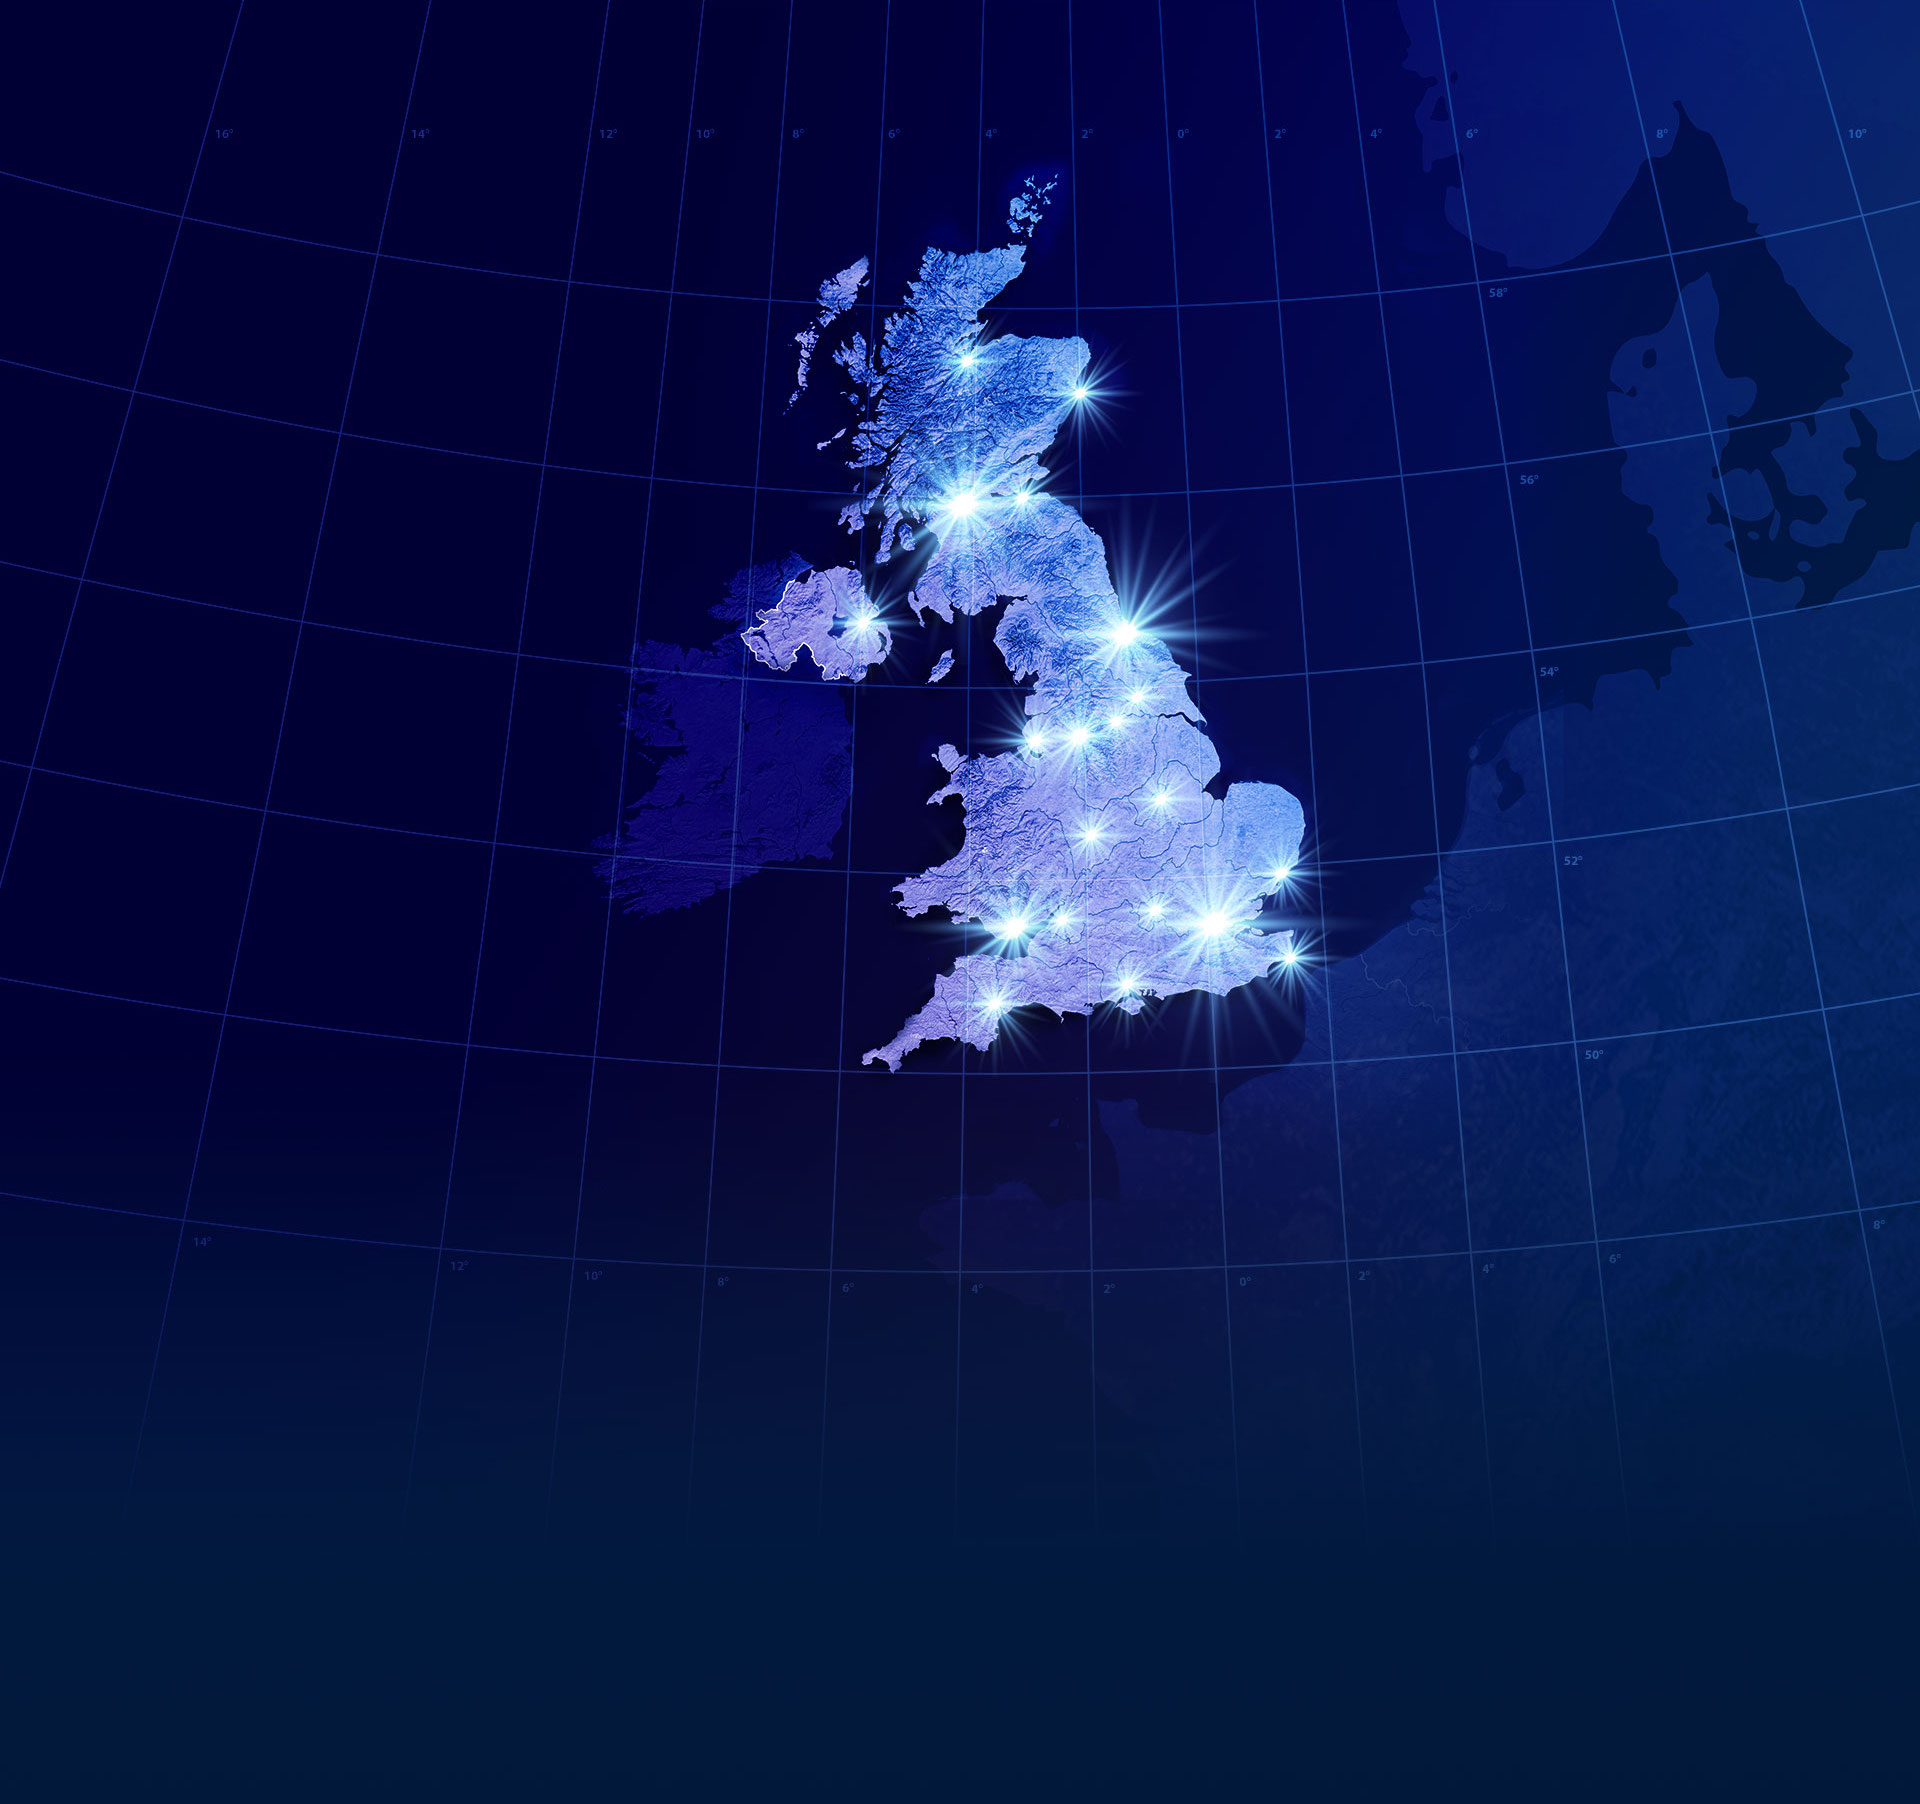
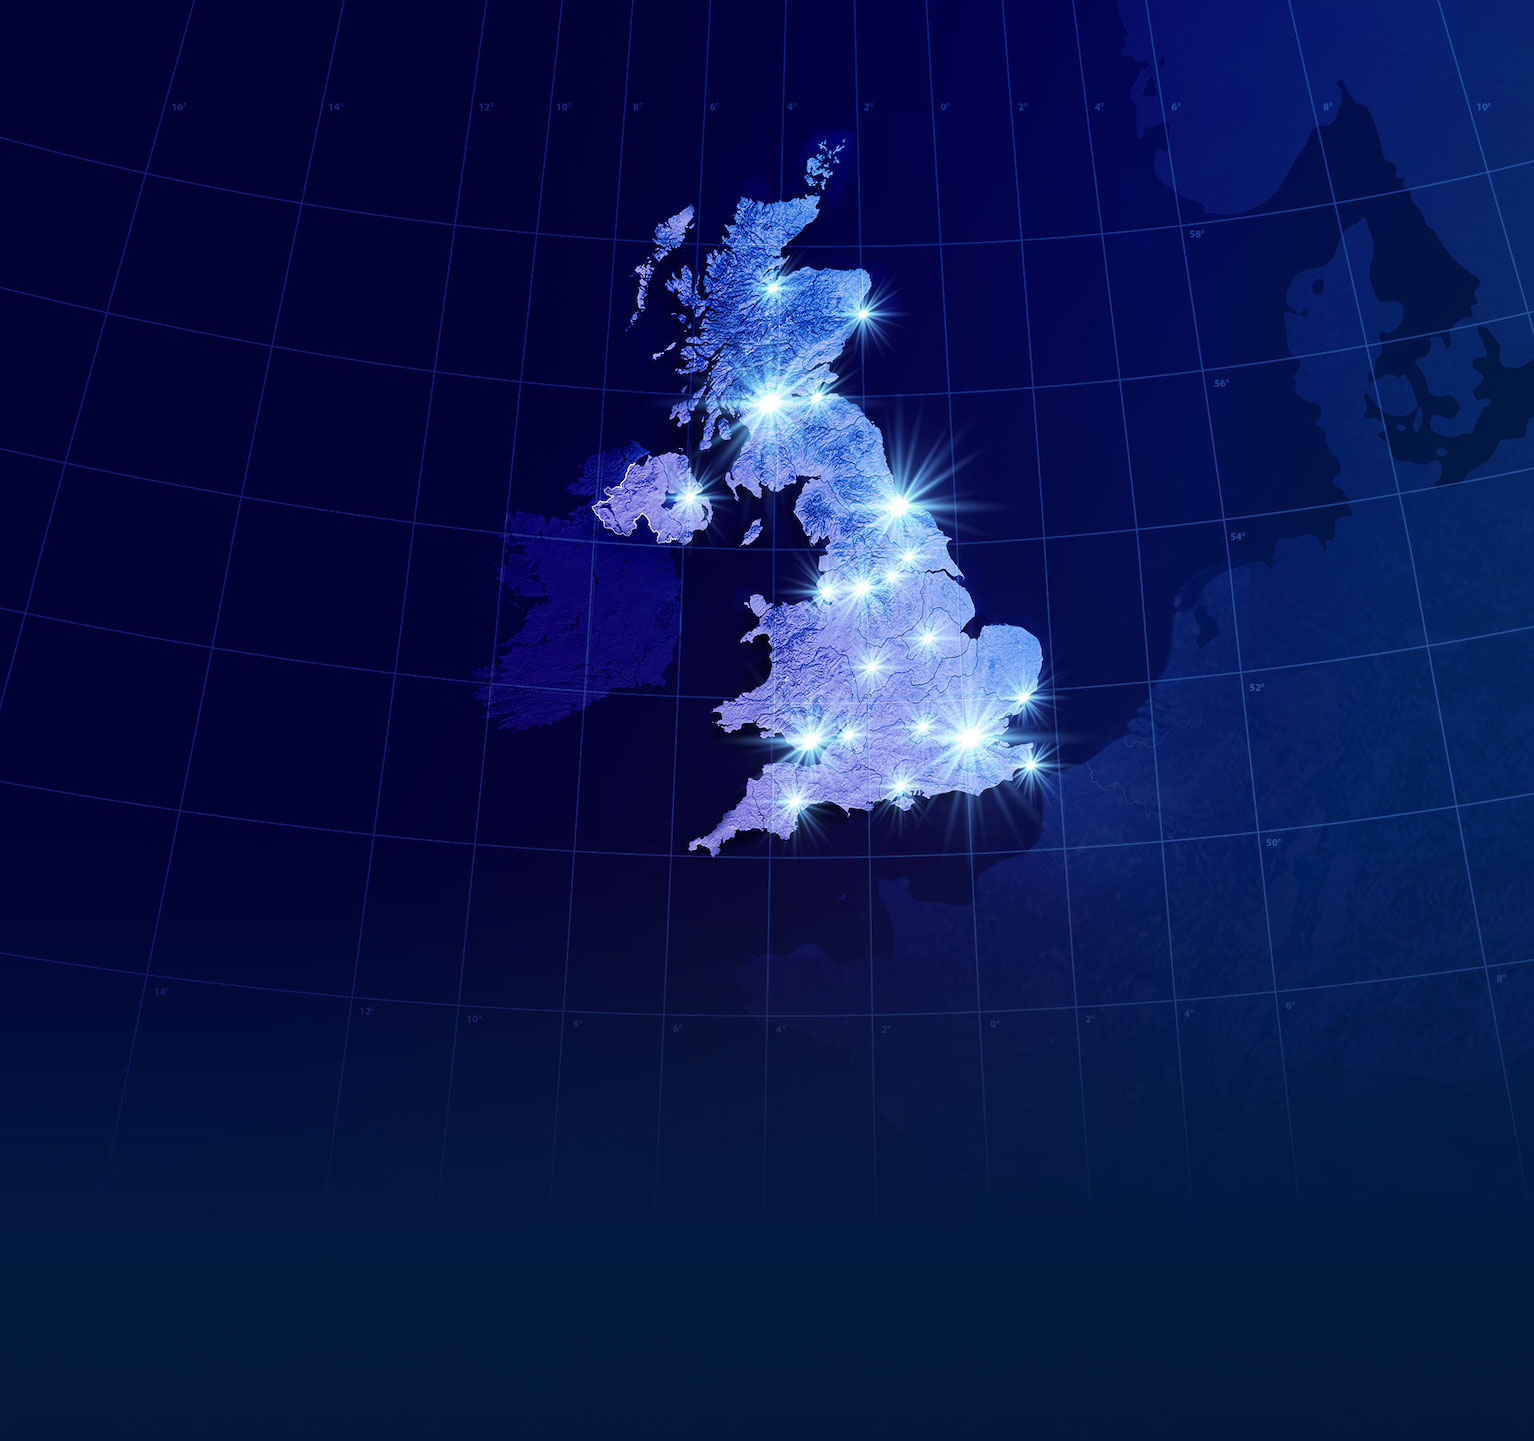
Resized mobile image as never used at more than 2x767px

diff --git a/investment_atlas/templates/investment_atlas/homepage.html b/investment_atlas/templates/investment_atlas/homepage.html
@@ -7,11 +7,8 @@
         <div class="atlas-home__image">
             <picture>
                 <source srcset="{% static 'core/images/atlas/homepage-mobile.jpg' %}" media="(max-width: 767px)"
-                        width="1920"
-                        height="1804">
-                <img src="{% static 'core/images/atlas/homepage.jpg' %}" alt=""
-                     width="1920"
-                     height="1826">
+                        width="1534" height="1441">
+                <img src="{% static 'core/images/atlas/homepage.jpg' %}" alt="" width="1920" height="1826">
             </picture>
         </div>
         <div class="atlas-container atlas-p-b-xl">
